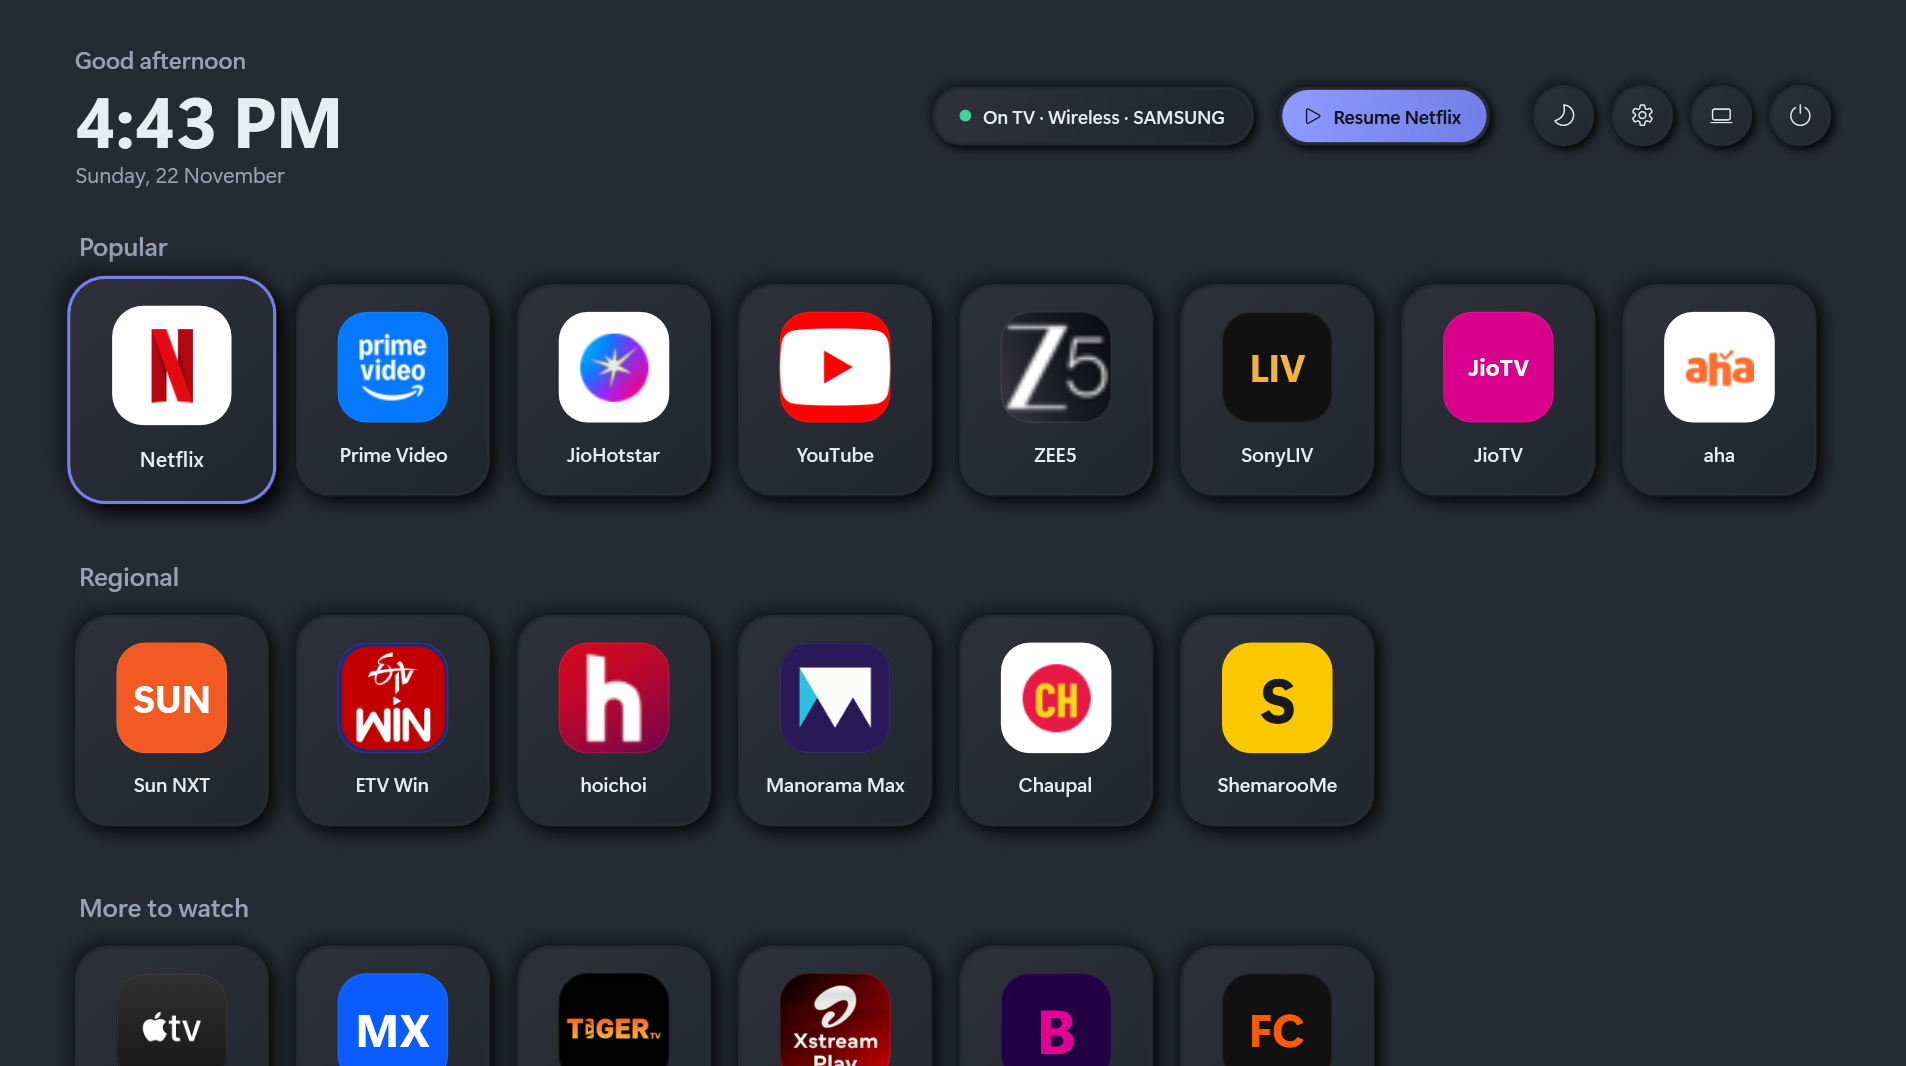
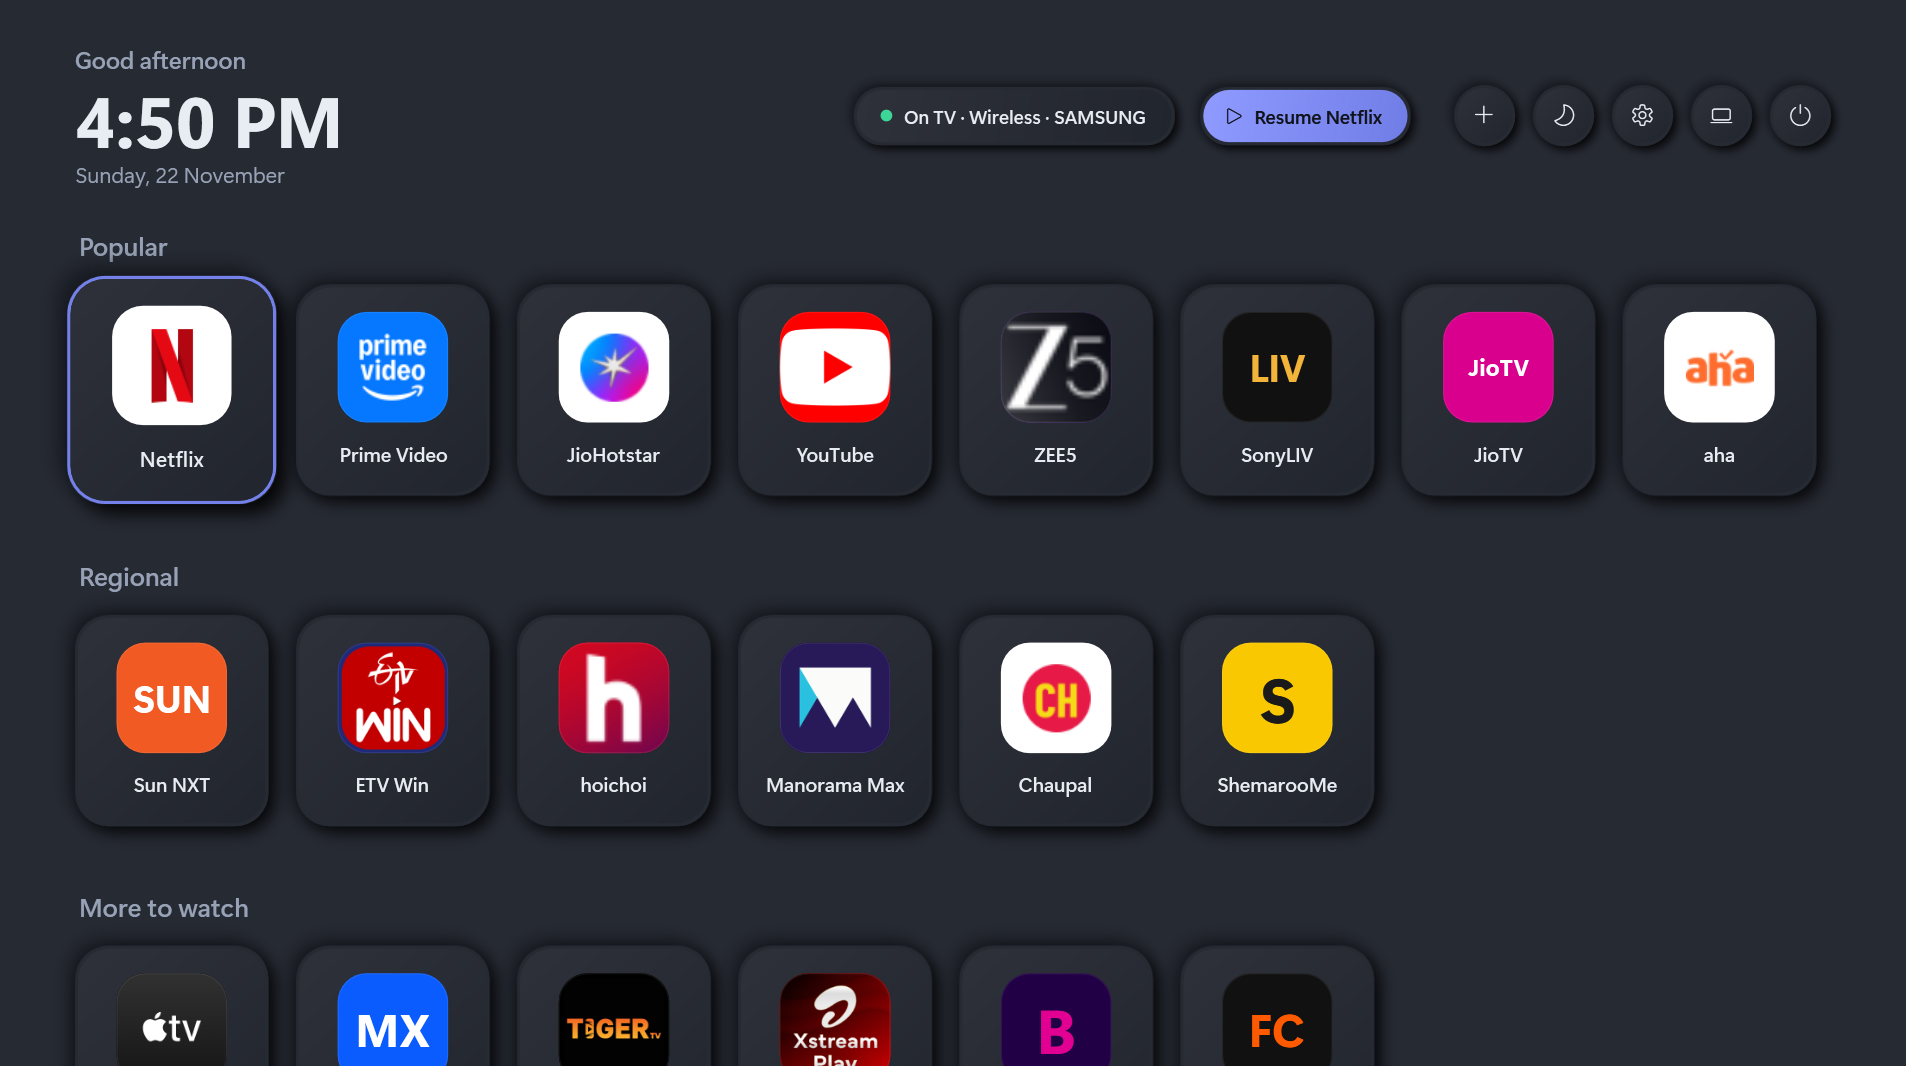
Make adding custom sites easy to find
Add a + button to the launcher top bar and an "Add a site" button in
Settings, alongside the existing tile at the end of the list.

Changed region(s): [[0.4643, 0.0619, 0.8048, 0.1548], [0.0619, 0.0929, 0.1238, 0.1548]]

diff --git a/src/Ui.cs b/src/Ui.cs
@@ -445,6 +445,7 @@ namespace SamsungCONNECT
             resumeChip = new Neu(rc, 28, 6, true, true, 1.05, "Resume") { Margin = new Thickness(0, 0, 26, 0), Tag = "resume", Visibility = Visibility.Collapsed, VerticalAlignment = VerticalAlignment.Center };
             resumeChip.Click += app.Resume;
             right.Children.Add(resumeChip);
+            right.Children.Add(IconButton(Glyphs.Add, "Add a site", "addsite", ShowAddTile));
             right.Children.Add(IconButton(Glyphs.ForMode(Theme.Mode), "Theme: " + Theme.Mode, "theme", CycleTheme));
             right.Children.Add(IconButton(Glyphs.Settings, "Settings", "settings", ShowSettings));
             right.Children.Add(IconButton(Glyphs.Laptop, "Back to laptop screen", "laptop", app.BackToLaptop));
@@ -650,7 +651,8 @@ namespace SamsungCONNECT
                 Neu refresh = Pill(Glyphs.Auto, "Refresh logos", false, delegate { app.RefreshLogos(); Toast("Downloading logos again."); });
                 Neu unhide = Pill(Glyphs.Home, "Show hidden tiles", false, delegate { app.SaveHiddenTiles(new List<string>()); Toast("All tiles are back."); if (launcher) Build(); });
                 Neu cast = Pill(Glyphs.Cast, "Open Windows Cast", false, app.OpenCast);
-                foreach (Neu b in new[] { refresh, unhide, cast }) { b.Margin = new Thickness(0, 0, 20, 16); tileActions.Children.Add(b); }
+                Neu addSite = Pill(Glyphs.Add, "Add a site", true, ShowAddTile);
+                foreach (Neu b in new[] { addSite, refresh, unhide, cast }) { b.Margin = new Thickness(0, 0, 20, 16); tileActions.Children.Add(b); }
                 body.Children.Add(tileActions);
                 body.Children.Add(Note("Shows open full screen in " + app.BrowserName + " with your usual logins. Logos come from each service's own website."));
 

diff --git a/README.md b/README.md
@@ -25,7 +25,7 @@ Before anything is final, the TV shows **"Can you see this on your TV?"** with a
 - Big tiles for **Netflix, Prime Video, JioHotstar, YouTube, ZEE5, SonyLIV, JioTV, aha**, regional services (**Sun NXT, ETV Win, hoichoi, Manorama Max, Chaupal, ShemarooMe**), plus **Apple TV+, Amazon MX Player, Lionsgate Play, Airtel Xstream, Tata Play Binge, FanCode**, and music (**YouTube Music, Spotify, JioSaavn**).
 - Click a tile, or move with the **arrow keys** and press **Enter**. The service opens as a full-screen **Chrome** app window that uses your normal Chrome profile, so you stay signed in.
 - Close the show with **Alt+F4**, or press **Ctrl+Alt+H** to jump back to the home screen. A **Resume** button takes you back to what you were watching.
-- **Add a site** at the end of the list creates your own tile for any web address. Right-click a tile (or press the **Menu** key) to hide or remove it.
+- **Add more sites** with the **+** button in the top bar, the "Add a site" tile at the end of the list, or **Settings → Add a site**. Type a name and any web address (for example `waves.pb.gov.in`) to get your own tile. Right-click a tile (or press the **Menu** key) to hide or remove it.
 
 ![The TV home screen in dark mode](docs/launcher-dark.png)
 
@@ -59,7 +59,7 @@ The soft neumorphic design comes in light and dark. The sun/moon button cycles *
 - **Keep playing with the lid closed:** on by default.
 - **Connect automatically when the app opens:** reuses your last method (wireless or HDMI).
 - **Start with Windows.**
-- **Refresh logos, Show hidden tiles, Open Windows Cast.**
+- **Add a site, Refresh logos, Show hidden tiles, Open Windows Cast.**
 
 ## Requirements
 

diff --git a/docs/VALIDATION.md b/docs/VALIDATION.md
@@ -8,7 +8,7 @@
 - Automated harness: **60 checks passed**. They cover the wireless and HDMI safety rules, the watchdog rule, native layouts, the streaming catalog, custom-tile address validation, saved-tile round trips, read-only display enumeration, and rendering of all five screens in light and dark mode. The rendered screens were inspected visually.
 - Logo download check (`build.ps1 -Logos`) from the build machine: 15 of 23 services returned a usable icon. ZEE5, SonyLIV and JioTV refuse automated or non-Indian requests, and a few others returned no usable icon. Those tiles show styled brand badges, and results on an Indian connection may differ.
 - Smoke run of the real executable with `--no-connect`: it started, created the tray icon and hotkeys, wrote the activity log, and a second launch handed off to the first instance and exited. The screen-saver flag was checked before and after. No display, power or startup setting was changed.
-- Production download is a single **108,544-byte EXE**, and it is **not Authenticode-signed**. Checksums are in [SHA256SUMS.txt](../SHA256SUMS.txt).
+- Production download is a single **109,056-byte EXE**, and it is **not Authenticode-signed**. Checksums are in [SHA256SUMS.txt](../SHA256SUMS.txt).
 
 ### Not performed
 
